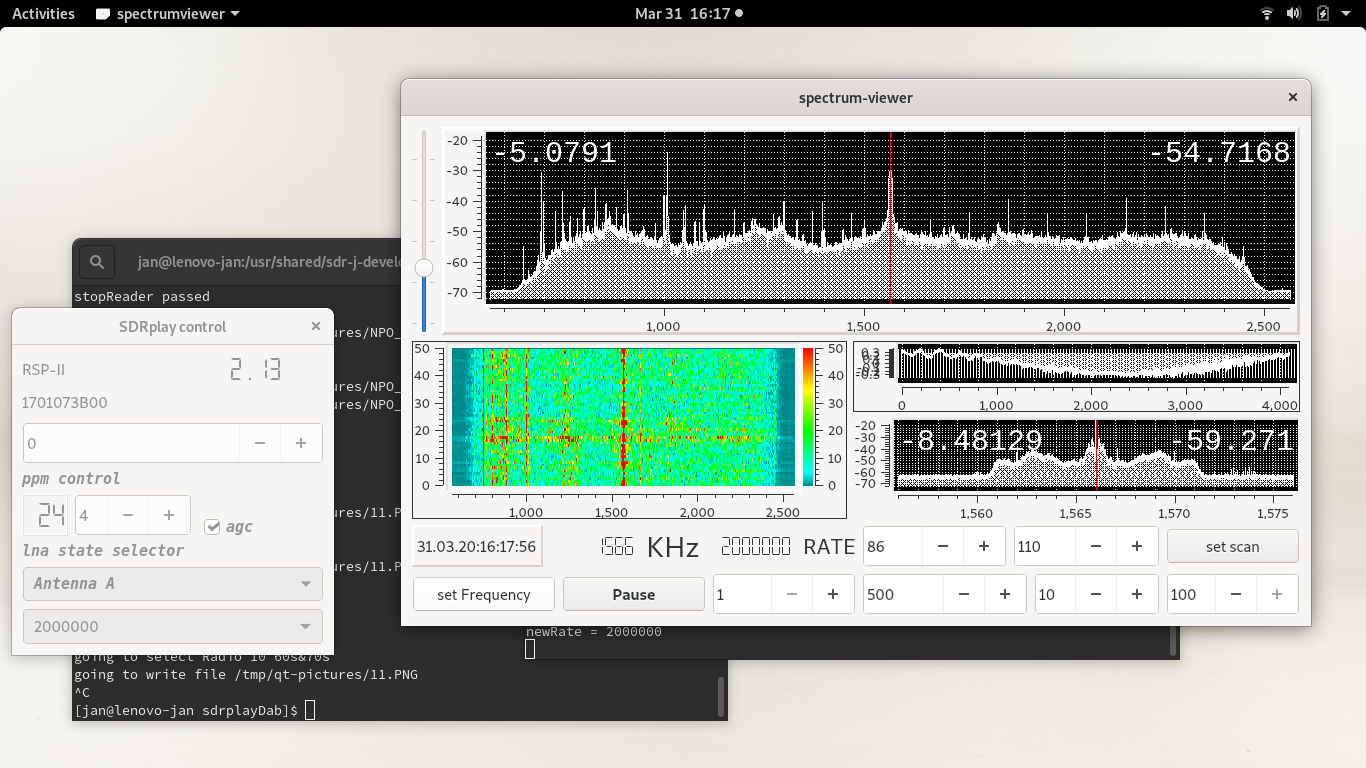
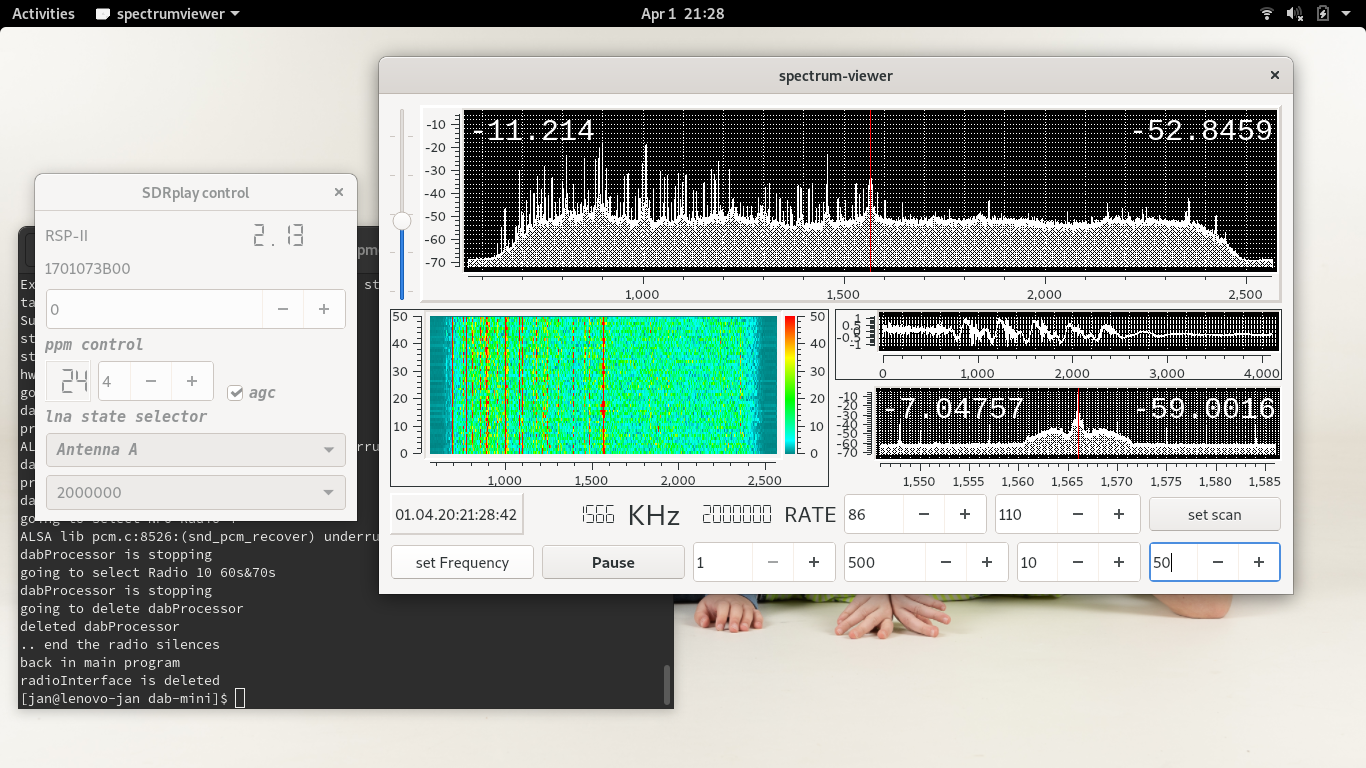
minor edit

diff --git a/src/signal-viewer.cpp b/src/signal-viewer.cpp
@@ -46,9 +46,9 @@
 //	SpectrumCurve	-> setStyle	(QwtPlotCurve::Sticks);
 	SpectrumCurve	-> setOrientation (Qt::Horizontal);
 	SpectrumCurve	-> setBaseline	(-1);
-	ourBrush	= new QBrush (Qt::white);
-	ourBrush	-> setStyle (Qt::Dense3Pattern);
-	SpectrumCurve	-> setBrush (*ourBrush);
+//	ourBrush	= new QBrush (Qt::white);
+//	ourBrush	-> setStyle (Qt::Dense3Pattern);
+//	SpectrumCurve	-> setBrush (*ourBrush);
 	SpectrumCurve	-> attach (plotgrid);
 	plotgrid	-> enableAxis (QwtPlot::yLeft);
 }

diff --git a/README.md b/README.md
@@ -20,9 +20,13 @@ at the same time a frequency spectrum and a waterfall.
 The current version has three "scopes", the top one showing the
 spectrum of the signal, with the second one showing the spectrum
 as a waterfall.
-The third one, smaller, shows a fraction of the spectrum. The fraction
-is determined by a selector. The picture shows a franction of 1/10,
-so a resulting width of app 300 KHz.
+
+The third one, smaller, allows you to look in greater detail to
+a segment of the spectrum. The amount of detail is determined by
+the decimation setting, a range between 5 and 100.
+
+Added is a view on the signal - as presented to the detailed viewer -
+as appearing in the time domain.
 
 The current version is a redesign and the GUI is modernized.
 
